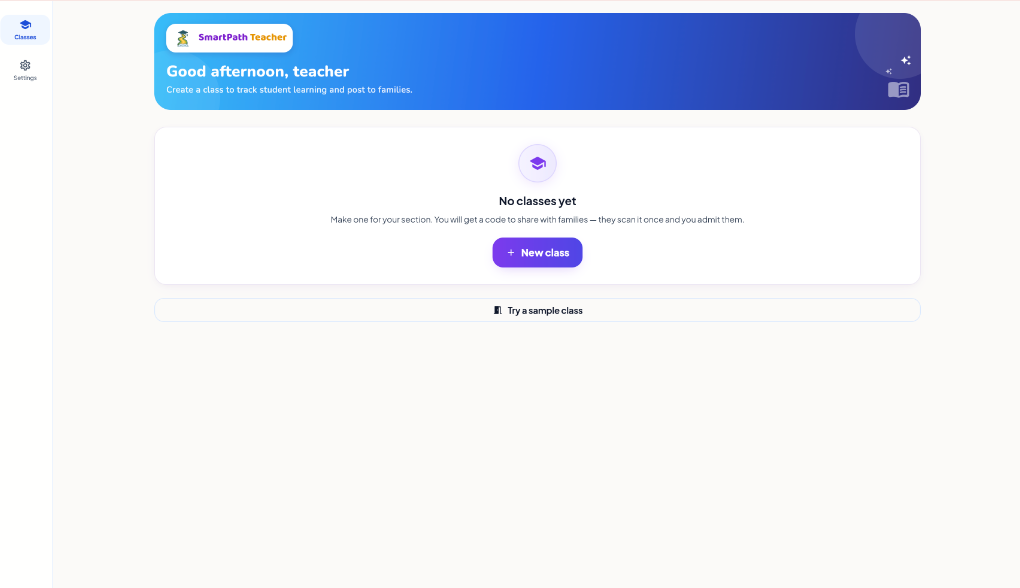
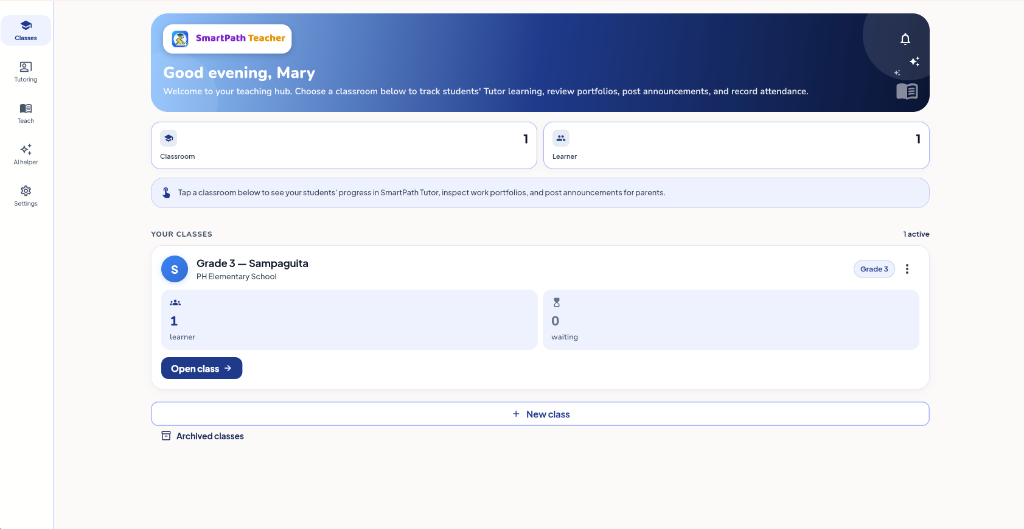
chore: update teacher showcase screenshots and homepage parent/teacher app showcase screenshots

diff --git a/src/components/site/device-showcase.tsx b/src/components/site/device-showcase.tsx
@@ -130,7 +130,7 @@ const APP_DATA: Record<
     ctaLabel: "See Plans",
     ctaHref: "/pricing",
     screens: {
-      mobile: "/images/parent-mobile.png?v=3",
+      mobile: "/images/parent-mobile.png?v=4",
       tablet: "/images/parent-tablet.png?v=3",
       laptop: "/images/parent-laptop.png?v=3",
     },
@@ -189,9 +189,9 @@ const APP_DATA: Record<
     ctaLabel: "Free Access",
     ctaHref: "/#contact",
     screens: {
-      mobile: "/images/teacher-mobile.png?v=2",
-      tablet: "/images/teacher-tablet.png?v=2",
-      laptop: "/images/teacher-laptop.png?v=2",
+      mobile: "/images/teacher-mobile.png?v=3",
+      tablet: "/images/teacher-tablet.png?v=3",
+      laptop: "/images/teacher-laptop.png?v=3",
     },
     showcaseTitle: "Inside",
     showcaseAccent: "SmartPath Teacher.",

diff --git a/src/components/site/app-showcase.tsx b/src/components/site/app-showcase.tsx
@@ -47,7 +47,7 @@ const APPS = [
     badge: "For Parents",
     name: "SmartPath Parent",
     tagline: "Live progress + AI homework coach.",
-    image: "/images/app-parent.png?v=2",
+    image: "/images/app-parent.png?v=3",
     alt: "SmartPath Parent App",
     icon: Users,
     accentBg: "bg-orange-500/10 text-orange-600 dark:bg-orange-400/15 dark:text-orange-300",
@@ -65,7 +65,7 @@ const APPS = [
     badge: "Free for Teachers",
     name: "SmartPath Teacher",
     tagline: "1 class code connects to families.",
-    image: "/images/app-teacher.png?v=2",
+    image: "/images/app-teacher.png?v=3",
     alt: "SmartPath Teacher App",
     icon: GraduationCap,
     accentBg: "bg-indigo-500/10 text-indigo-600 dark:bg-indigo-400/15 dark:text-indigo-300",
